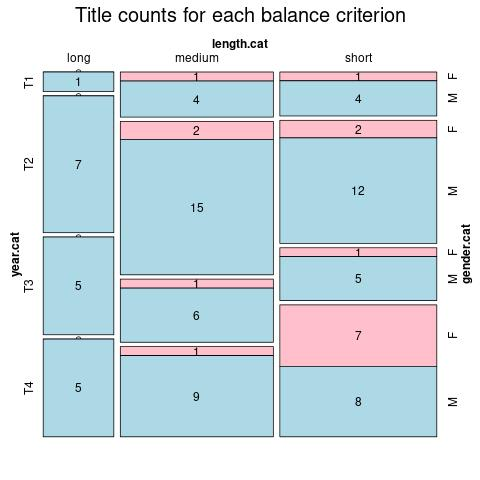
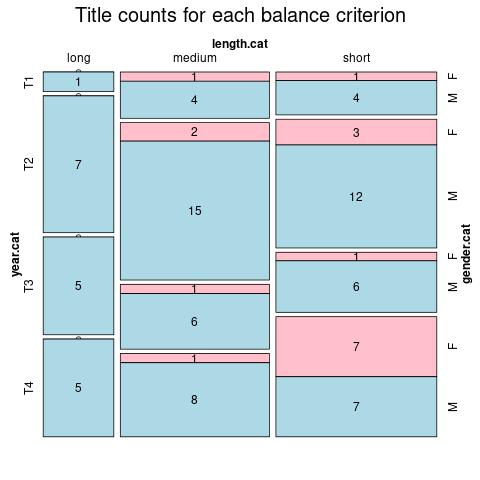
portuguese fixes

diff --git a/ELTeC/por/index.html b/ELTeC/por/index.html
@@ -5,7 +5,7 @@
       <title>Contents of ELTeC-por</title>
    </head>
    <body>
-      <h4>On 2020-07-13 ELTeC-por contains 97 texts containing 6326106 words</h4>
+      <h4>On 2020-07-15 ELTeC-por contains 97 texts containing 6330666 words</h4>
       <p class="graphic"><img src="mosaic.png"><input type="button" value="Explainer" onclick="window.open('../explainer.html','popUpWindow',         'height=600,width=500,left=100,top=100,resizable=yes,         scrollbars=yes,toolbar=no,menubar=no,location=no,directories=no, status=yes');"></p>
       <p class="explain">Click on a column heading to sort. Click on a text identifier to
          read the text (may not work in older browsers).</p>
@@ -467,18 +467,6 @@
             <td>high</td>
          </tr>
          <tr>
-            <td><a href="POR0039.html">POR0039</a><a href="https://raw.githubusercontent.com/COST-ELTeC/ELTeC-por/master/level1/POR0039_AlbBra_Engeitado.xml"><img src="../../media/teiLogo.jpg"></a></td>
-            <td>eltec-1</td>
-            <td></td>
-            <td>8266</td>
-            <td>(short) </td>
-            <td>1888 (T3) </td>
-            <td>O Engeitado</td>
-            <td>Braga, Alberto Alberto Leal Barradas Monteiro (1851-1911)</td>
-            <td>M</td>
-            <td>unspecified</td>
-         </tr>
-         <tr>
             <td><a href="POR0040.html">POR0040</a><a href="https://raw.githubusercontent.com/COST-ELTeC/ELTeC-por/master/level1/POR0040_AJCL_Tripeiros.xml"><img src="../../media/teiLogo.jpg"></a></td>
             <td>eltec-1</td>
             <td></td>
@@ -707,13 +695,13 @@
             <td>unspecified</td>
          </tr>
          <tr>
-            <td><a href="POR0060.html">POR0060</a><a href="https://raw.githubusercontent.com/COST-ELTeC/ELTeC-por/master/level1/POR0060_FiaAlm_Condessa.xml"><img src="../../media/teiLogo.jpg"></a></td>
+            <td><a href="POR0060.html">POR0060</a><a href="https://raw.githubusercontent.com/COST-ELTeC/ELTeC-por/master/level1/POR0060_FiaAlm_Ruiva.xml"><img src="../../media/teiLogo.jpg"></a></td>
             <td>eltec-1</td>
             <td></td>
-            <td>19420</td>
+            <td>24147</td>
             <td>(short) </td>
-            <td>1914 (T4) </td>
-            <td>O juramento da condessa Esther</td>
+            <td>1881 (T3) </td>
+            <td>A ruiva</td>
             <td>Almeida, Fialho de (1857-1911)</td>
             <td>M</td>
             <td>unspecified</td>
@@ -727,7 +715,7 @@
             <td>1871 (T2) </td>
             <td>Herança de lágrimas</td>
             <td>Plácido, Ana (1831-1895)</td>
-            <td>M</td>
+            <td>F</td>
             <td>low</td>
          </tr>
          <tr>
@@ -839,13 +827,13 @@
             <td>low</td>
          </tr>
          <tr>
-            <td><a href="POR0071.html">POR0071</a><a href="https://raw.githubusercontent.com/COST-ELTeC/ELTeC-por/master/level1/POR0071_OliMas_Trovador.xml"><img src="../../media/teiLogo.jpg"></a></td>
+            <td><a href="POR0071.html">POR0071</a><a href="https://raw.githubusercontent.com/COST-ELTeC/ELTeC-por/master/level1/POR0071_OliMas_Arrabido.xml"><img src="../../media/teiLogo.jpg"></a></td>
             <td>eltec-1</td>
             <td></td>
-            <td>68424</td>
-            <td>(medium) </td>
-            <td>1906 (T4) </td>
-            <td>O trovador da Infanta</td>
+            <td>27907</td>
+            <td>(short) </td>
+            <td>1881 (T3) </td>
+            <td>O frade arrábido</td>
             <td>Oliveira Mascarenhas, Joaquim Augusto de (1847-1918)</td>
             <td>M</td>
             <td>low</td>
@@ -992,6 +980,18 @@
             <td>A vida por um prejuízo</td>
             <td>Pestana, Alice (1860-1929) </td>
             <td>F</td>
+            <td>low</td>
+         </tr>
+         <tr>
+            <td><a href="POR0084.html">POR0084</a><a href="https://raw.githubusercontent.com/COST-ELTeC/ELTeC-por/master/level1/POR0084_FraLGom_Bramanes.xml"><img src="../../media/teiLogo.jpg"></a></td>
+            <td>eltec-1</td>
+            <td></td>
+            <td>48616</td>
+            <td>(short) </td>
+            <td>1866 (T2) </td>
+            <td>Os Brâmanes</td>
+            <td>Gomes, Francisco Luís (1829-1869) </td>
+            <td>M</td>
             <td>low</td>
          </tr>
          <tr>

diff --git a/ELTeC/por/POR0084.html b/ELTeC/por/POR0084.html
@@ -20,7 +20,7 @@
     },
   };
   c.addBehaviors(behaviors);
-  c.getHTML5("https://raw.githubusercontent.com/COST-ELTeC/ELTeC-por/master/level1/POR0084_RocMar_GomesFreire.xml",function(data) {
+  c.getHTML5("https://raw.githubusercontent.com/COST-ELTeC/ELTeC-por/master/level1/POR0084_FraLGom_Bramanes.xml",function(data) {
   document.getElementsByTagName("body")[0].appendChild(data);});
   </script>
      </head>

diff --git a/ELTeC/por/POR0071.html b/ELTeC/por/POR0071.html
@@ -20,7 +20,7 @@
     },
   };
   c.addBehaviors(behaviors);
-  c.getHTML5("https://raw.githubusercontent.com/COST-ELTeC/ELTeC-por/master/level1/POR0071_OliMas_Trovador.xml",function(data) {
+  c.getHTML5("https://raw.githubusercontent.com/COST-ELTeC/ELTeC-por/master/level1/POR0071_OliMas_Arrabido.xml",function(data) {
   document.getElementsByTagName("body")[0].appendChild(data);});
   </script>
      </head>

diff --git a/ELTeC/por/POR0060.html b/ELTeC/por/POR0060.html
@@ -20,7 +20,7 @@
     },
   };
   c.addBehaviors(behaviors);
-  c.getHTML5("https://raw.githubusercontent.com/COST-ELTeC/ELTeC-por/master/level1/POR0060_FiaAlm_Condessa.xml",function(data) {
+  c.getHTML5("https://raw.githubusercontent.com/COST-ELTeC/ELTeC-por/master/level1/POR0060_FiaAlm_Ruiva.xml",function(data) {
   document.getElementsByTagName("body")[0].appendChild(data);});
   </script>
      </head>
